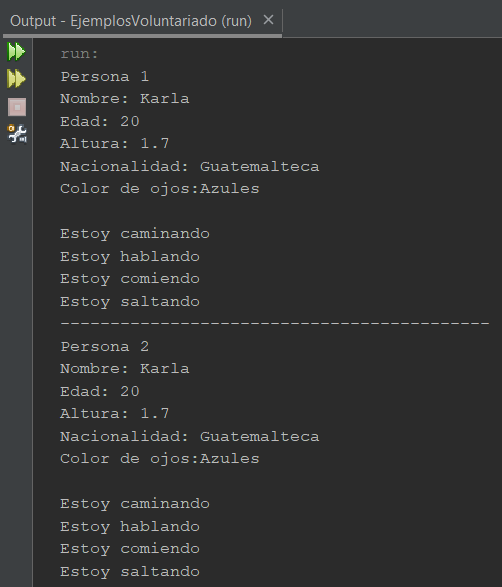
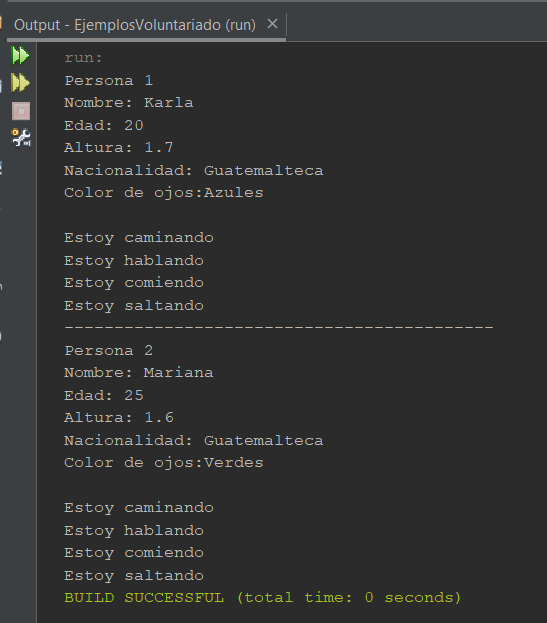
Agregando más imagenes

diff --git a/Frontend/Java/java-poo.html b/Frontend/Java/java-poo.html
@@ -488,7 +488,7 @@
                         </div>
                         <br />
                         <br />
-                        <p class="text-white bg-dark">El resultado del programa anterior se muestra en la siguiente imagen, en la cual la Persona 1 hace referencia a la forma de trabajar las primeras instancias y la Persona 2 hace referencia a otra forma de trabajar las instancias y en cada caso el resultado será el mismo.</p>
+                        <p class="text-white bg-dark">El resultado del programa anterior se muestra en la siguiente imagen, en la cual la Persona 1 hace referencia a la forma de trabajar las primeras instancias y la Persona 2 hace referencia a otra forma de trabajar las instancias y en cada caso el resultado será el mismo pero con diferentes datos.</p>
                         <br />
                         <img src="/Frontend/img/POO_Ejecución programa.png" class="img-fluid" alt="..."> 
                         <br />
